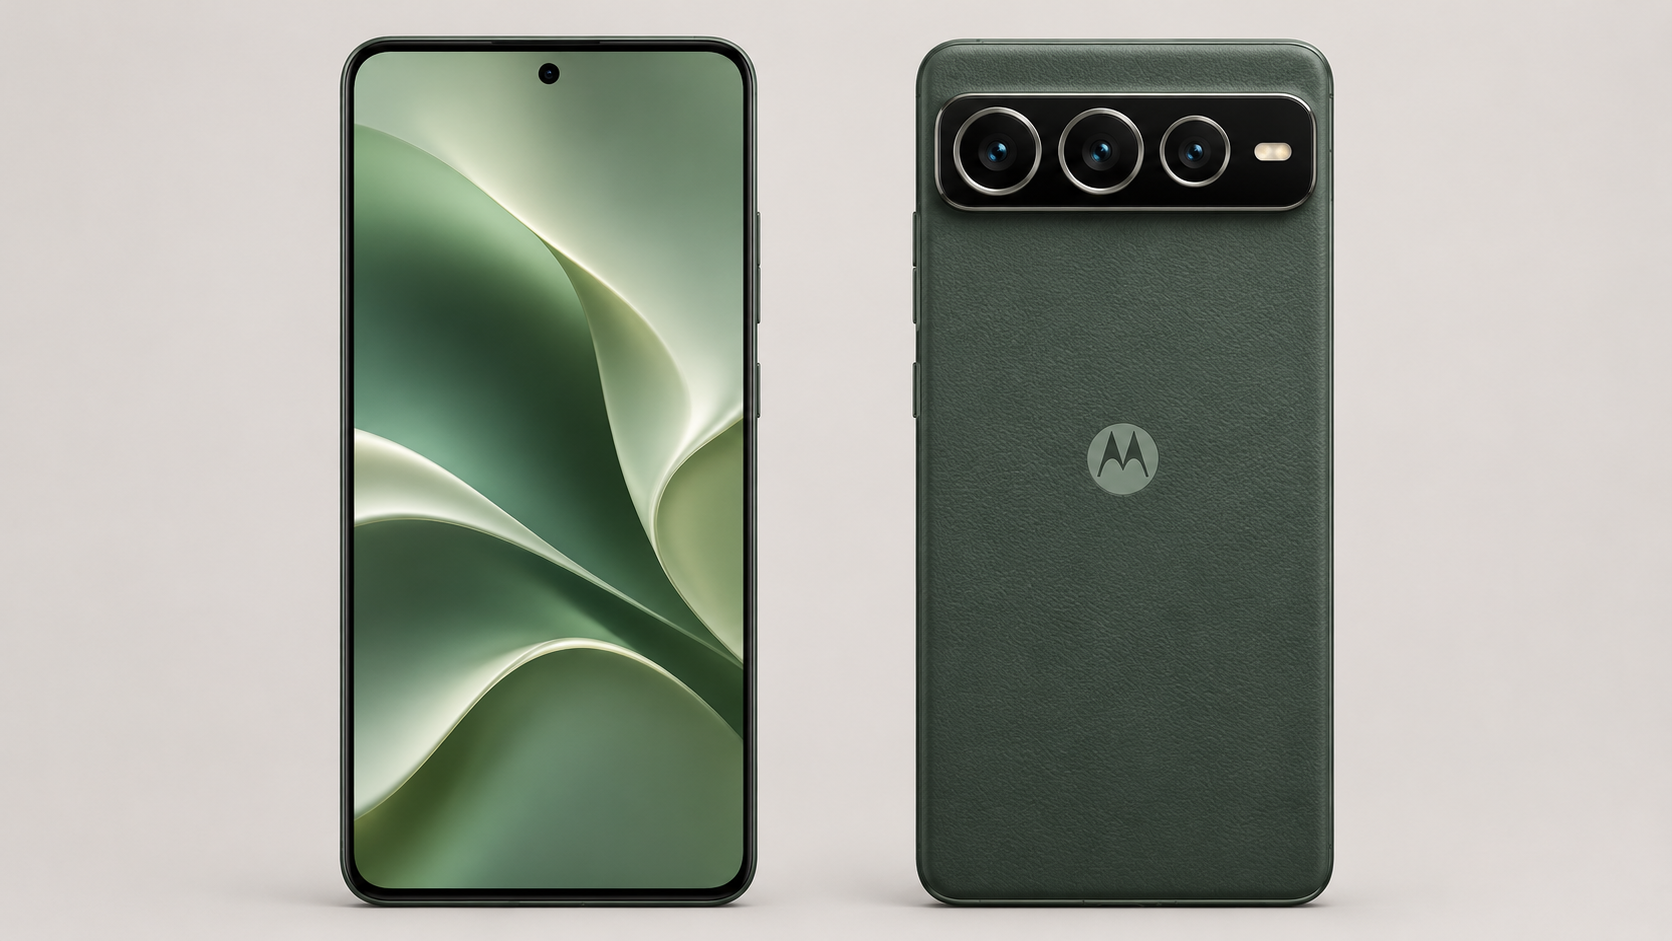
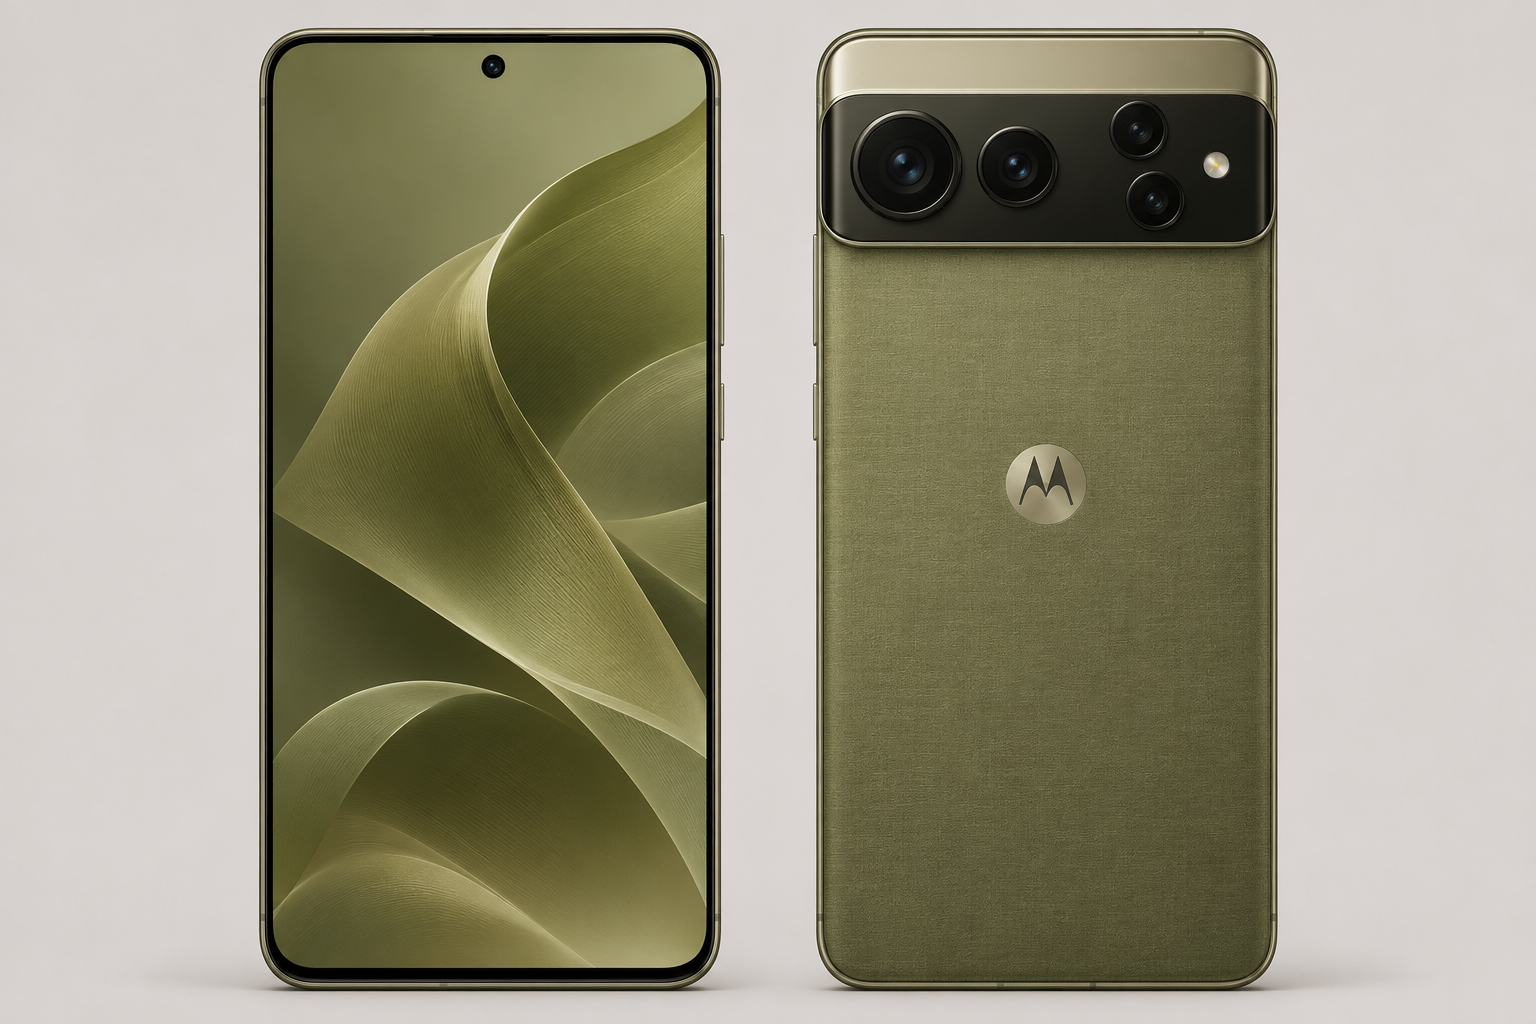
Refresh Motorola Signature 27 India specifications and AI product views

diff --git a/python/india_recent_eight_import.py b/python/india_recent_eight_import.py
@@ -6,6 +6,7 @@ current prices, scores or image licences. The original 232 cards remain frozen.
 from __future__ import annotations
 
 import json
+from datetime import date
 from shutil import copyfile
 from html import escape
 from pathlib import Path
@@ -34,6 +35,7 @@ def _name(card: dict) -> str:
 REVIEWED_SPECS = {
     "chipset", "display_type_description", "display_refresh_description",
     "battery_capacity_description", "charging_description", "rear_camera_system", "india_variant_description",
+    "front_camera_system", "memory_storage_description", "operating_system", "durability", "audio", "colour_options",
 }
 APPROVED = {
     "Motorola Signature 27": ("motorola", "signature 27", "motorola.in"),
@@ -137,25 +139,26 @@ def build_recent() -> dict:
     }
 
 
-def _review_views(card: dict, name: str) -> str:
+def _review_views(card: dict, name: str, *, linked: bool = True) -> str:
     route = detail_route(card["model_key"])
     slug = route.rstrip("/").rsplit("/", 1)[-1]
     src = f"/assets/phone-illustrations/recent-india-pairs/{slug}.png"
-    return (
-        '<figure style="margin:0 0 1rem">'
-        f'<a href="{route}" aria-label="View {escape(name, quote=True)} specifications">'
+    image = (
         f'<img src="{src}" loading="lazy" decoding="async" style="width:100%;height:auto;display:block" '
-        f'alt="Two illustrated views of {escape(name, quote=True)}"></a>'
+        f'alt="Two illustrated views of {escape(name, quote=True)}">'
+    )
+    if linked:
+        image = f'<a href="{route}" aria-label="View {escape(name, quote=True)} specifications">{image}</a>'
+    return (
+        '<figure style="margin:0 0 1rem">' + image +
         '<figcaption>AI-generated · two views of the same model</figcaption></figure>'
     )
 
 
 def _hub(cards: list[dict]) -> str:
     """One source-linked indexable hub; no autogenerated thin model pages."""
-    ordered = sorted(cards, key=lambda card: (
-        0 if card.get("research_checked_at") == "2026-11-18" else 1,
-        card["model_key"]
-    ))
+    ordered = sorted(cards, key=lambda card: card["model_key"])
+    ordered.sort(key=lambda card: card.get("research_checked_at", ""), reverse=True)
     items = []
     for card in ordered:
         display = _name(card)
@@ -166,10 +169,12 @@ def _hub(cards: list[dict]) -> str:
             for key, field in list(card["specifications"].items())[:4]
         )
         q = quote(display, safe="")
+        reviewed = card.get("research_checked_at")
+        reviewed_text = date.fromisoformat(reviewed).strftime("%d %B %Y") if reviewed else ""
         items.append(
             '<article class="cr-card">' + _review_views(card, display) +
             '<h2><a href="' + detail_route(card["model_key"]) + '">' + escape(display) + '</a></h2>' +
-            ('<p><strong>Specifications reviewed 18 November 2026</strong></p>' if card.get("research_checked_at") == "2026-11-18"
+            (f'<p><strong>Specifications reviewed {reviewed_text}</strong></p>' if reviewed_text
              else '<p>Official India manufacturer model identified; full field verification pending</p>') +
             ('<ul>' + facts + '</ul>' if facts else '') +
             '<p><a href="' + escape(sources, quote=True) +
@@ -179,7 +184,7 @@ def _hub(cards: list[dict]) -> str:
         )
     body = (
         '<p class="cr-crumb"><a href="/">Home</a> / <a href="/phones/">Phones</a> / New India research</p>'
-        '<section class="cr-hero"><p class="cr-eyebrow">INDIA SMARTPHONE RESEARCH · 18 NOVEMBER 2026</p>'
+        '<section class="cr-hero"><p class="cr-eyebrow">INDIA SMARTPHONE RESEARCH · NOVEMBER 2026</p>'
         '<h1>13 recently added India smartphones — official manufacturer sources</h1>'
         '<p>These are additional model-family research records beyond the original 232 phones, '
         'not a sales ranking or verified shopping inventory. Three models newly reviewed '
@@ -216,18 +221,23 @@ def _detail_page(card: dict) -> str:
         '">Search ' + escape(x["retailer"].title()) + ' for this model</a></li>'
         for x in card["retailer_search_links"]
     )
+    visual = (
+        '<img src="' + card["research_art_url"] + '" width="540" height="430" '
+        'loading="eager" alt="Generic smartphone illustration; not a photo of ' +
+        escape(name, quote=True) + '">'
+        '<p><small>Original illustrated artwork. NOT the exact product photograph. '
+        'Product imagery can be added only with model-verified commercial reuse rights.</small></p>'
+    )
+    if card["model_key"] == "motorola|signature 27":
+        visual = _review_views(card, name, linked=False)
     body = (
         '<p class="cr-crumb"><a href="/">Home</a> / <a href="' + HUB +
         '">New India mobiles</a> / ' + escape(name) + '</p>'
         '<article class="cr-detail"><h1>' + escape(name) + '</h1>'
         '<p>Manufacturer-linked smartphone research · exact India retail variants '
         'and availability not certified.</p>'
-        '<img src="' + card["research_art_url"] + '" width="540" height="430" '
-        'loading="eager" alt="Generic smartphone illustration; not a photo of ' +
-        escape(name, quote=True) + '">'
-        '<p><small>Original illustrated artwork. NOT the exact product photograph. '
-        'Product imagery can be added only with model-verified commercial reuse rights.</small></p>'
-        '<h2>Specifications</h2>' +
+        + visual
+        + '<h2>Specifications</h2>' +
         ('<dl class="cr-detail-facts">' + specs + '</dl>' if specs else
          '<p>Manufacturer model source is recorded; technical fields are pending '
          'source-by-source verification. Do not assume missing specifications.</p>') +

diff --git a/test_india_recent_eight_import.py b/test_india_recent_eight_import.py
@@ -26,9 +26,10 @@ class RecentIndiaPhonesTests(unittest.TestCase):
             self.assertGreaterEqual(len(card["specifications"]), 2)
             self.assertTrue(all(field["source_url"] == card["manufacturer_page"]
                                 for field in card["specifications"].values()))
-            self.assertTrue(all(field["checked_at"] == "2026-11-18"
+            reviewed = "2026-11-22" if card["model_key"] == "motorola|signature 27" else "2026-11-18"
+            self.assertTrue(all(field["checked_at"] == reviewed
                                 for field in card["specifications"].values()))
-            self.assertEqual(card["research_checked_at"], "2026-11-18")
+            self.assertEqual(card["research_checked_at"], reviewed)
             if card["model_key"] in {"samsung|galaxy f70 5g", "redmi|redmi 17c 5g", "realme|p4s lite"}:
                 self.assertGreaterEqual(len(card["specifications"]), 5)
             self.assertEqual(card["verified_retailer_links"], [])
